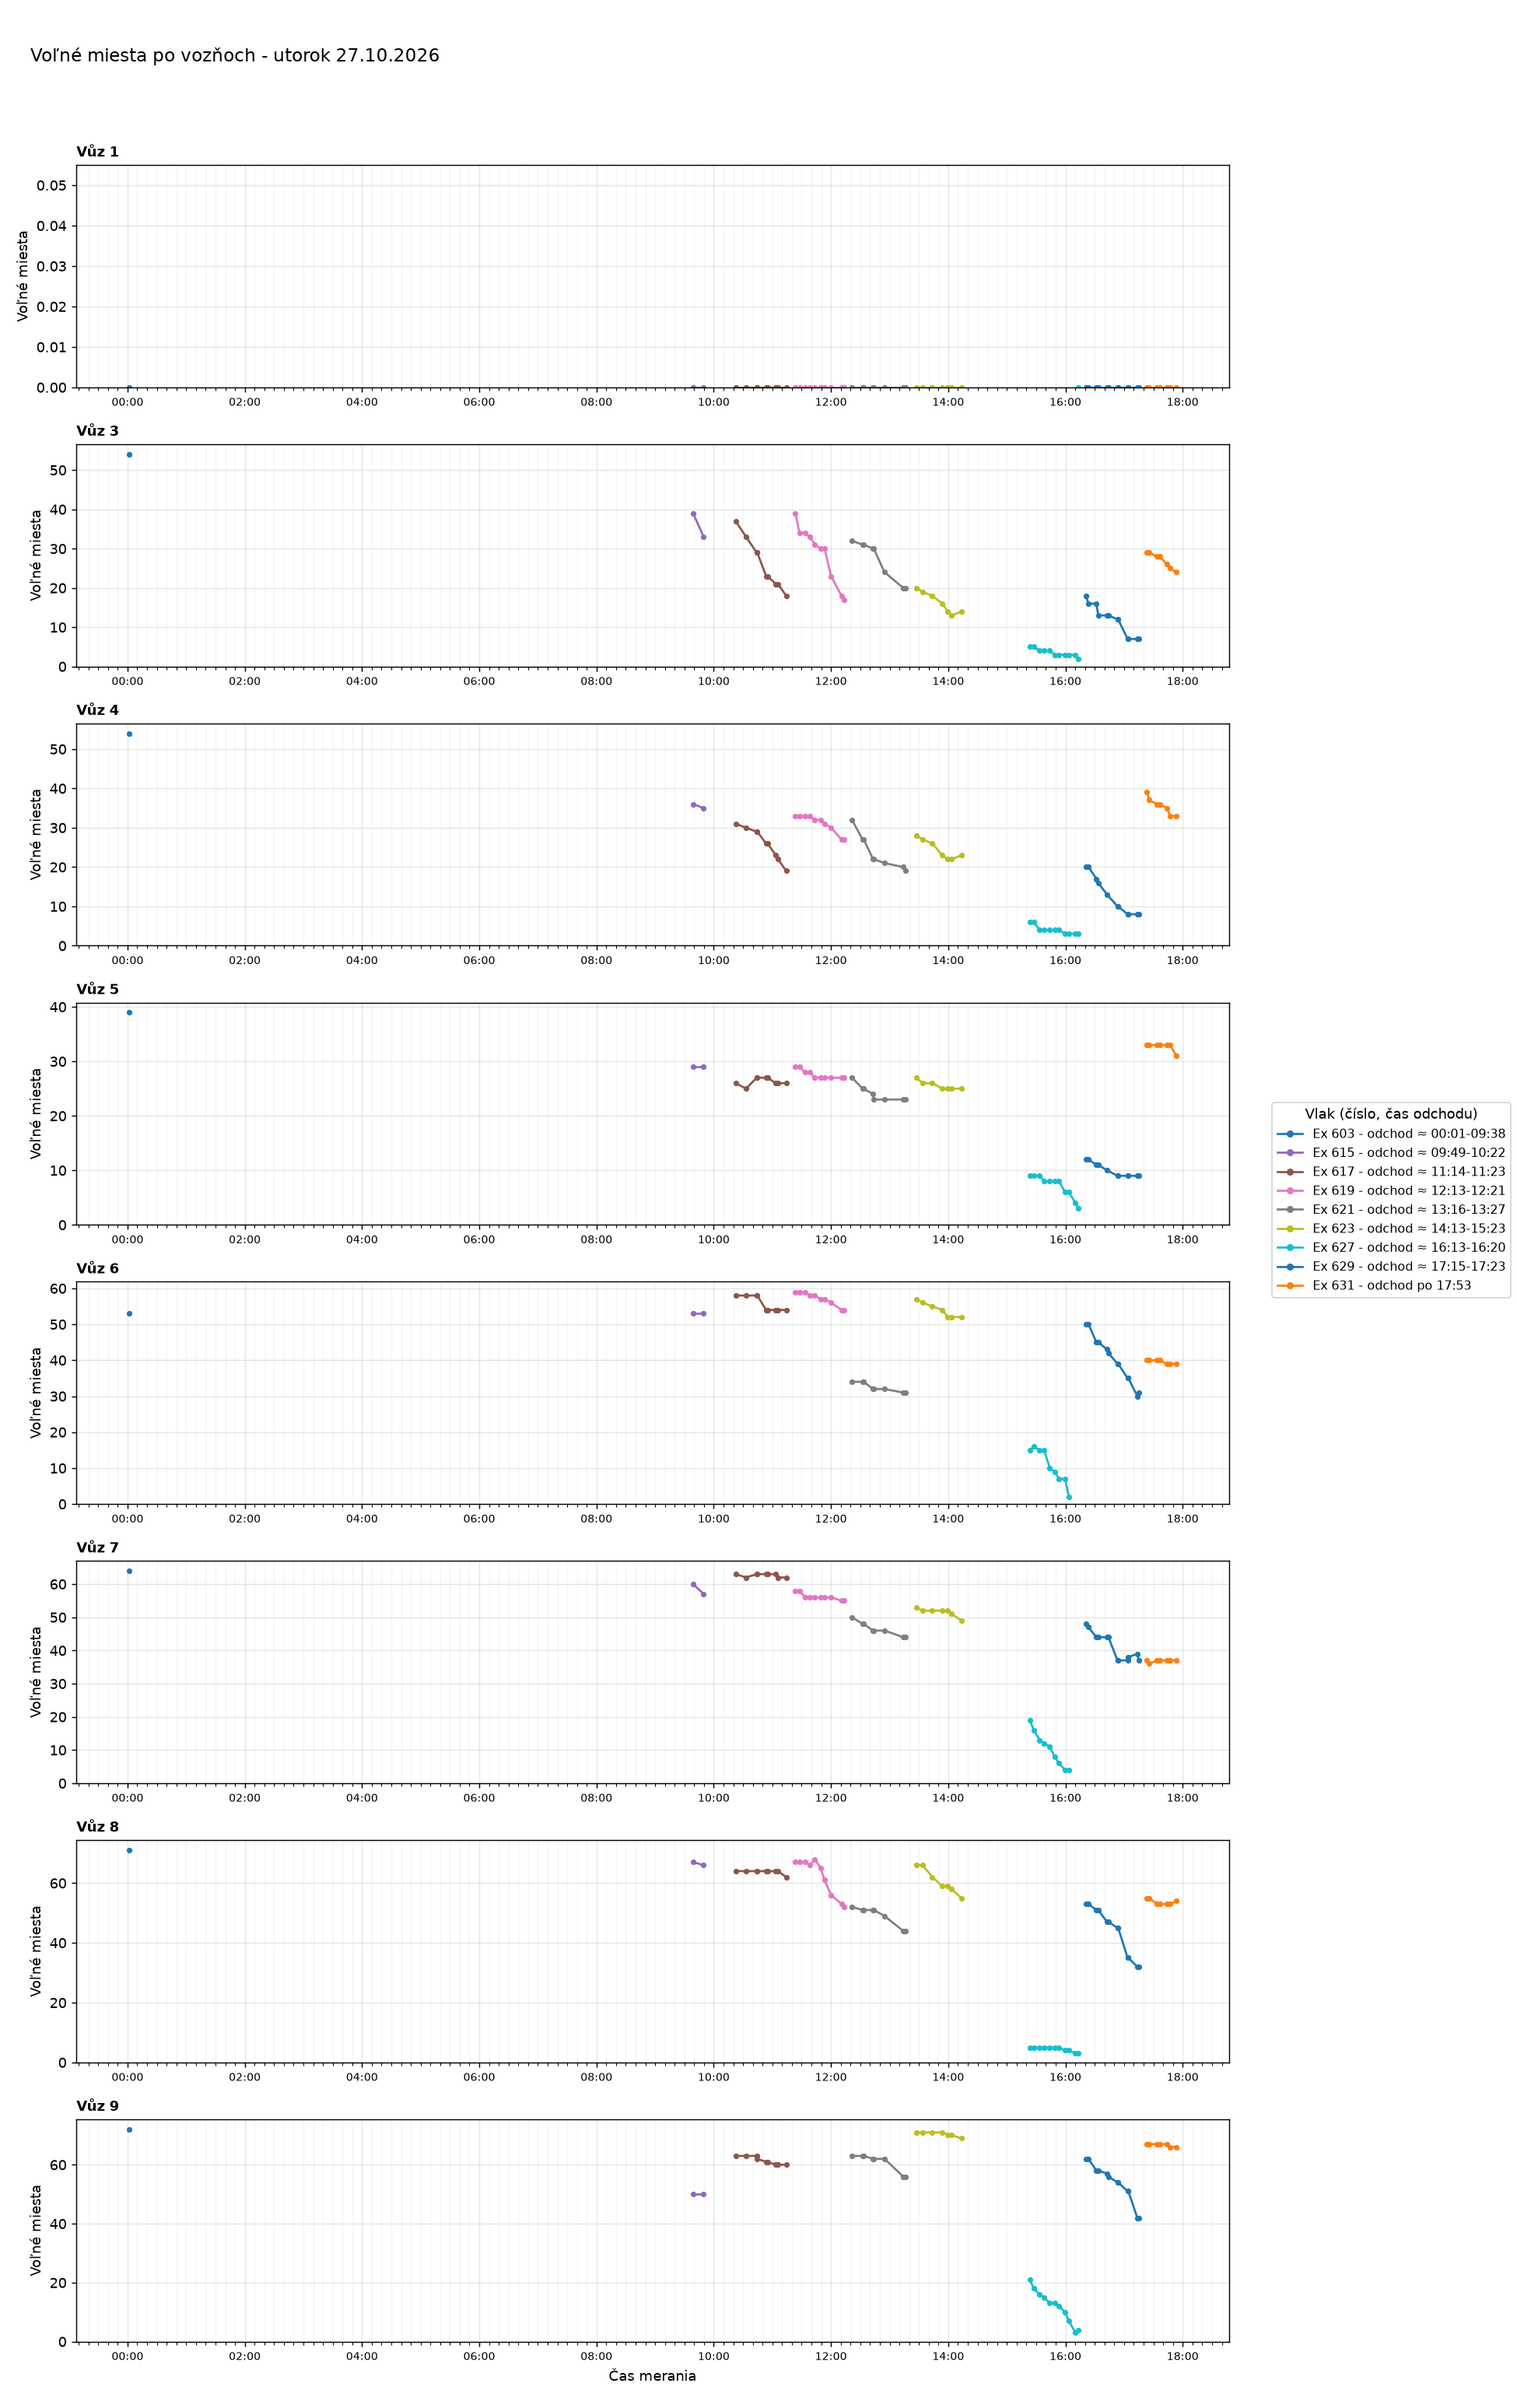
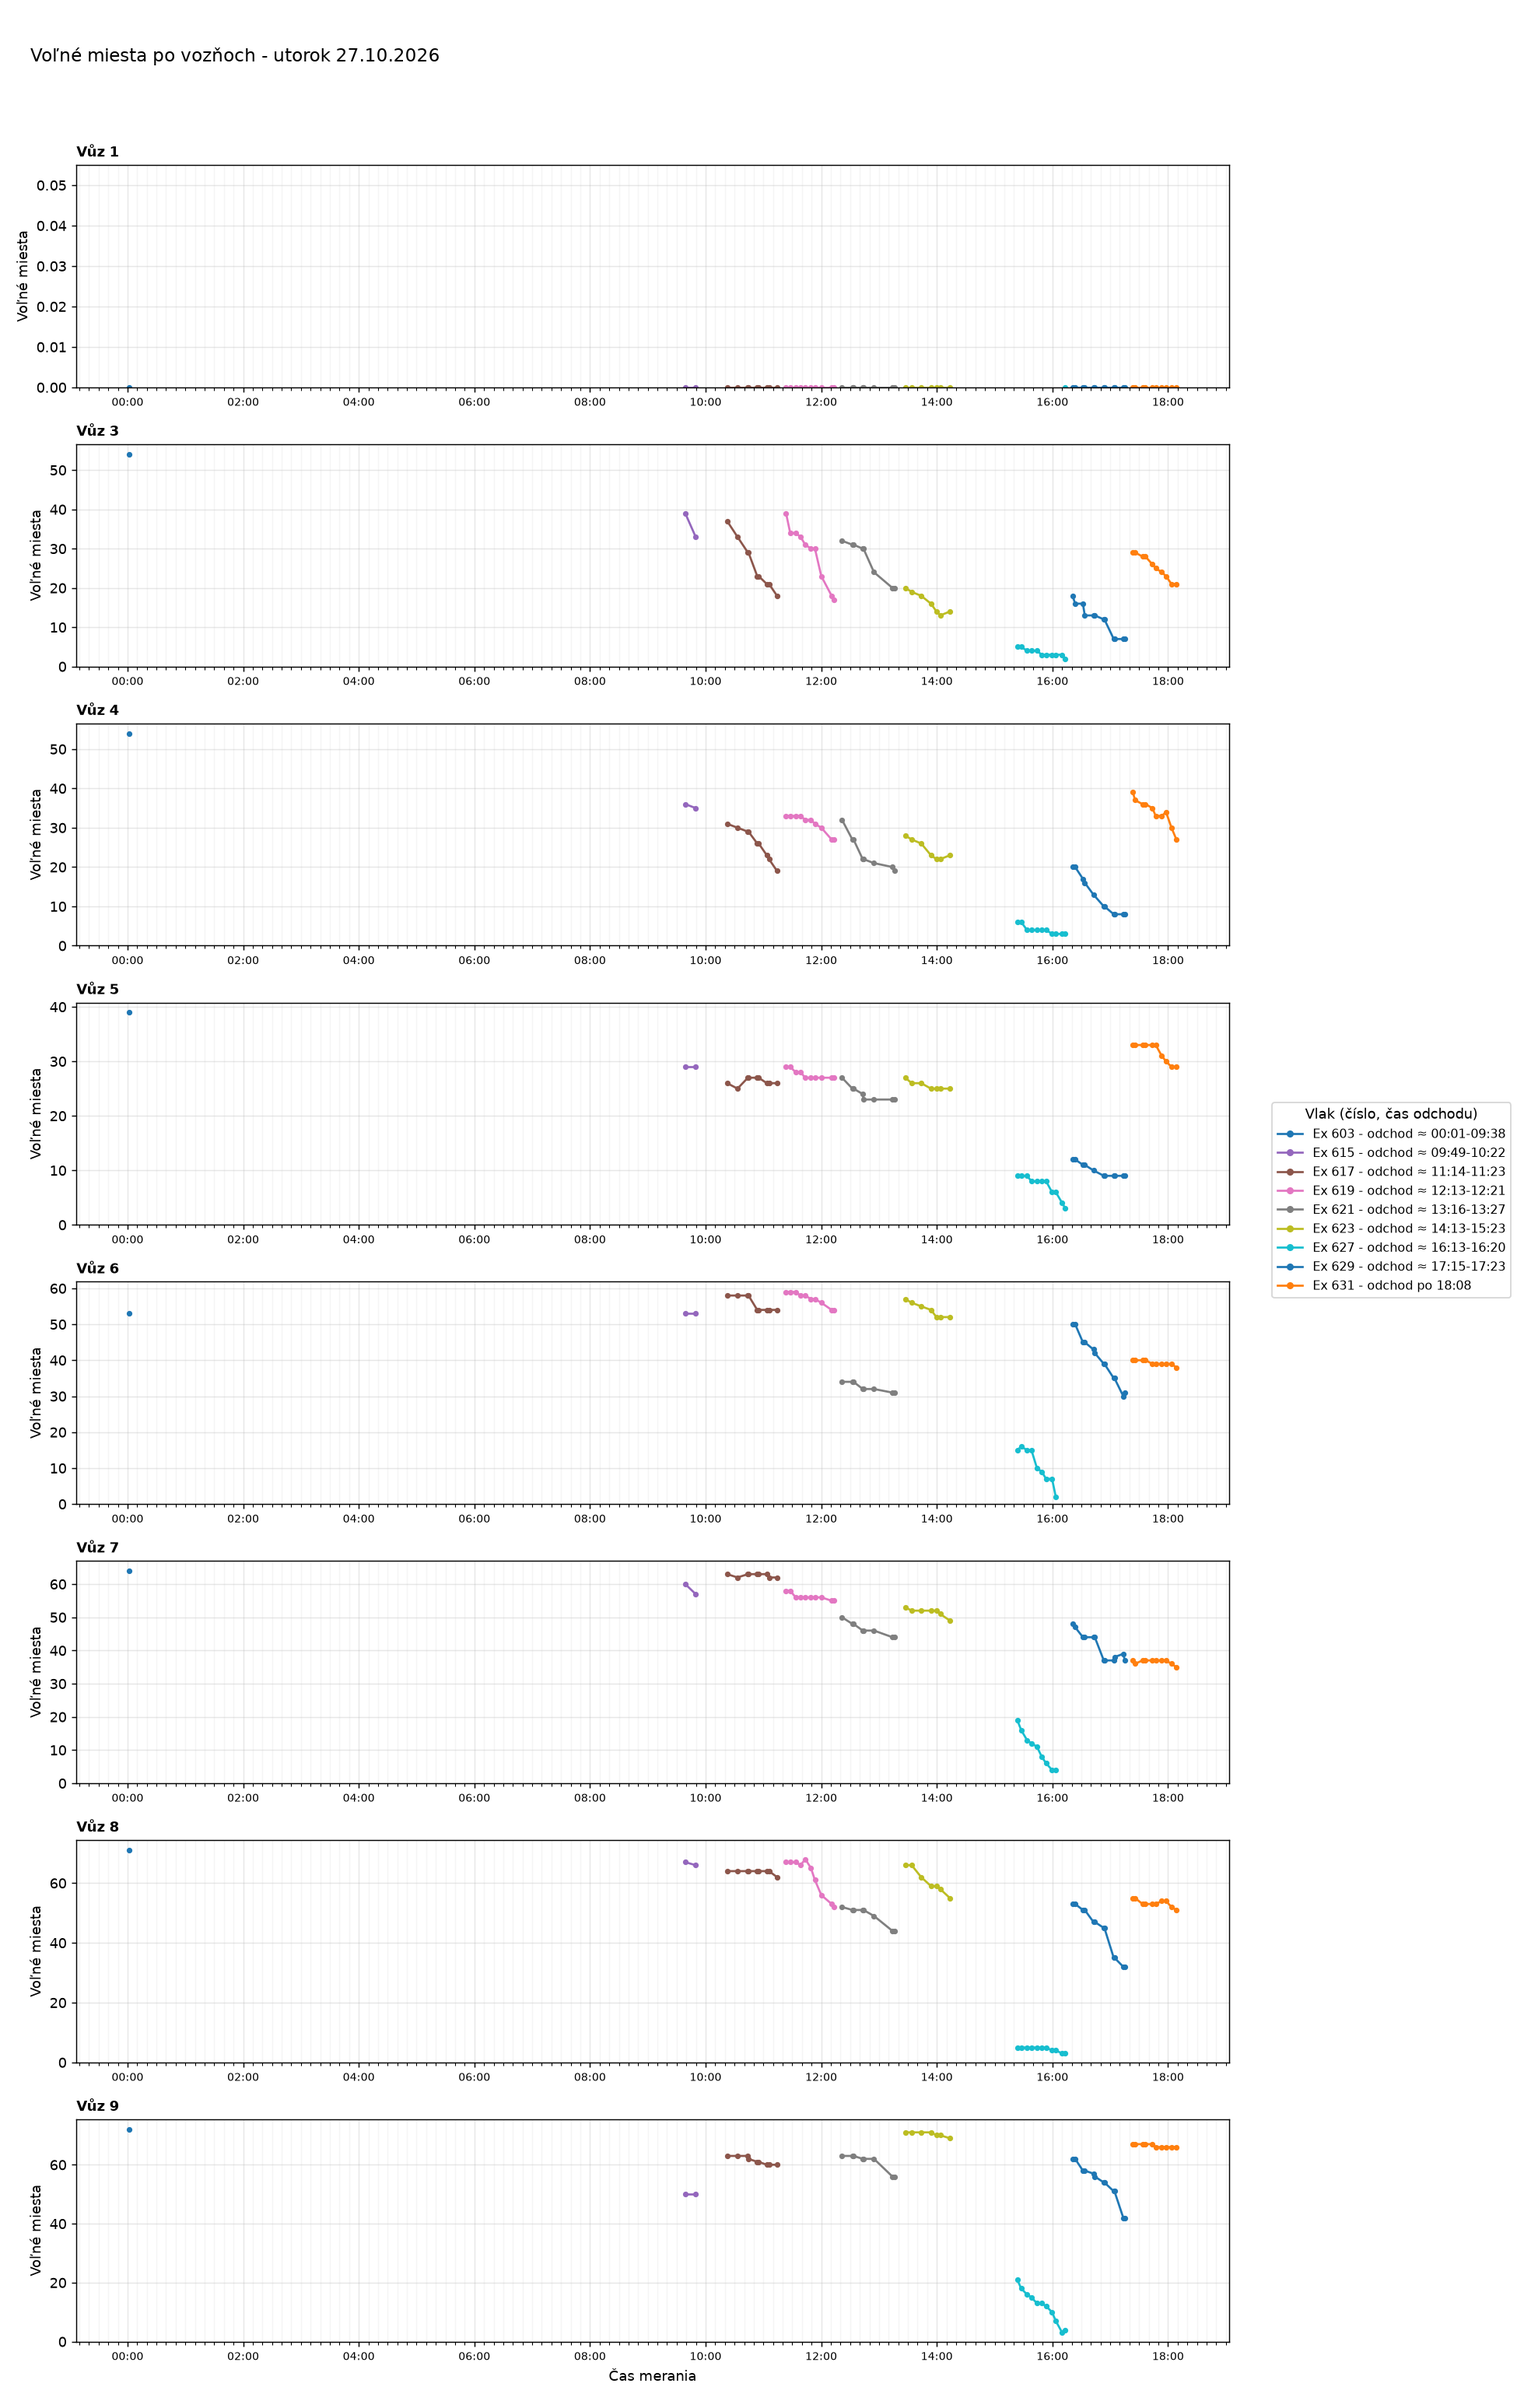
Aktualizácia grafov 2026-10-27 18:09

diff --git a/index.html b/index.html
@@ -35,7 +35,7 @@ h2.oddiel{margin:36px 0 0;font-size:1.4rem}
 <body>
 <main>
 <h1>Voľné miesta vo vlakoch</h1>
-<p class="muted">Posledné meranie: 27.10.2026 17:53 ·
+<p class="muted">Posledné meranie: 27.10.2026 18:08 ·
 <a href="data/obsadenost_data.csv">stiahnuť dáta (CSV)</a></p>
 <nav class="nav"><a href="#suhrn">Súhrn</a><a href="#statistiky">Štatistiky</a><a href="#historia">História grafov</a></nav>
 
@@ -44,7 +44,7 @@ h2.oddiel{margin:36px 0 0;font-size:1.4rem}
 <div class="tablewrap"><table>
 <thead><tr><th>Deň</th><th>Meraní</th><th>Vlakov</th><th>Čas meraní</th></tr></thead>
 <tbody>
-<tr><td><a href="#d2026-10-27">utorok 27.10.2026</a></td><td>67</td><td>9</td><td>00:01-17:53</td></tr>
+<tr><td><a href="#d2026-10-27">utorok 27.10.2026</a></td><td>70</td><td>9</td><td>00:01-18:08</td></tr>
 <tr><td><a href="#d2026-10-26">pondelok 26.10.2026</a></td><td>88</td><td>14</td><td>00:06-23:50</td></tr>
 <tr><td><a href="#d2026-10-25">nedeľa 25.10.2026</a></td><td>101</td><td>15</td><td>00:01-23:56</td></tr>
 <tr><td><a href="#d2026-10-24">sobota 24.10.2026</a></td><td>98</td><td>14</td><td>00:10-23:50</td></tr>
